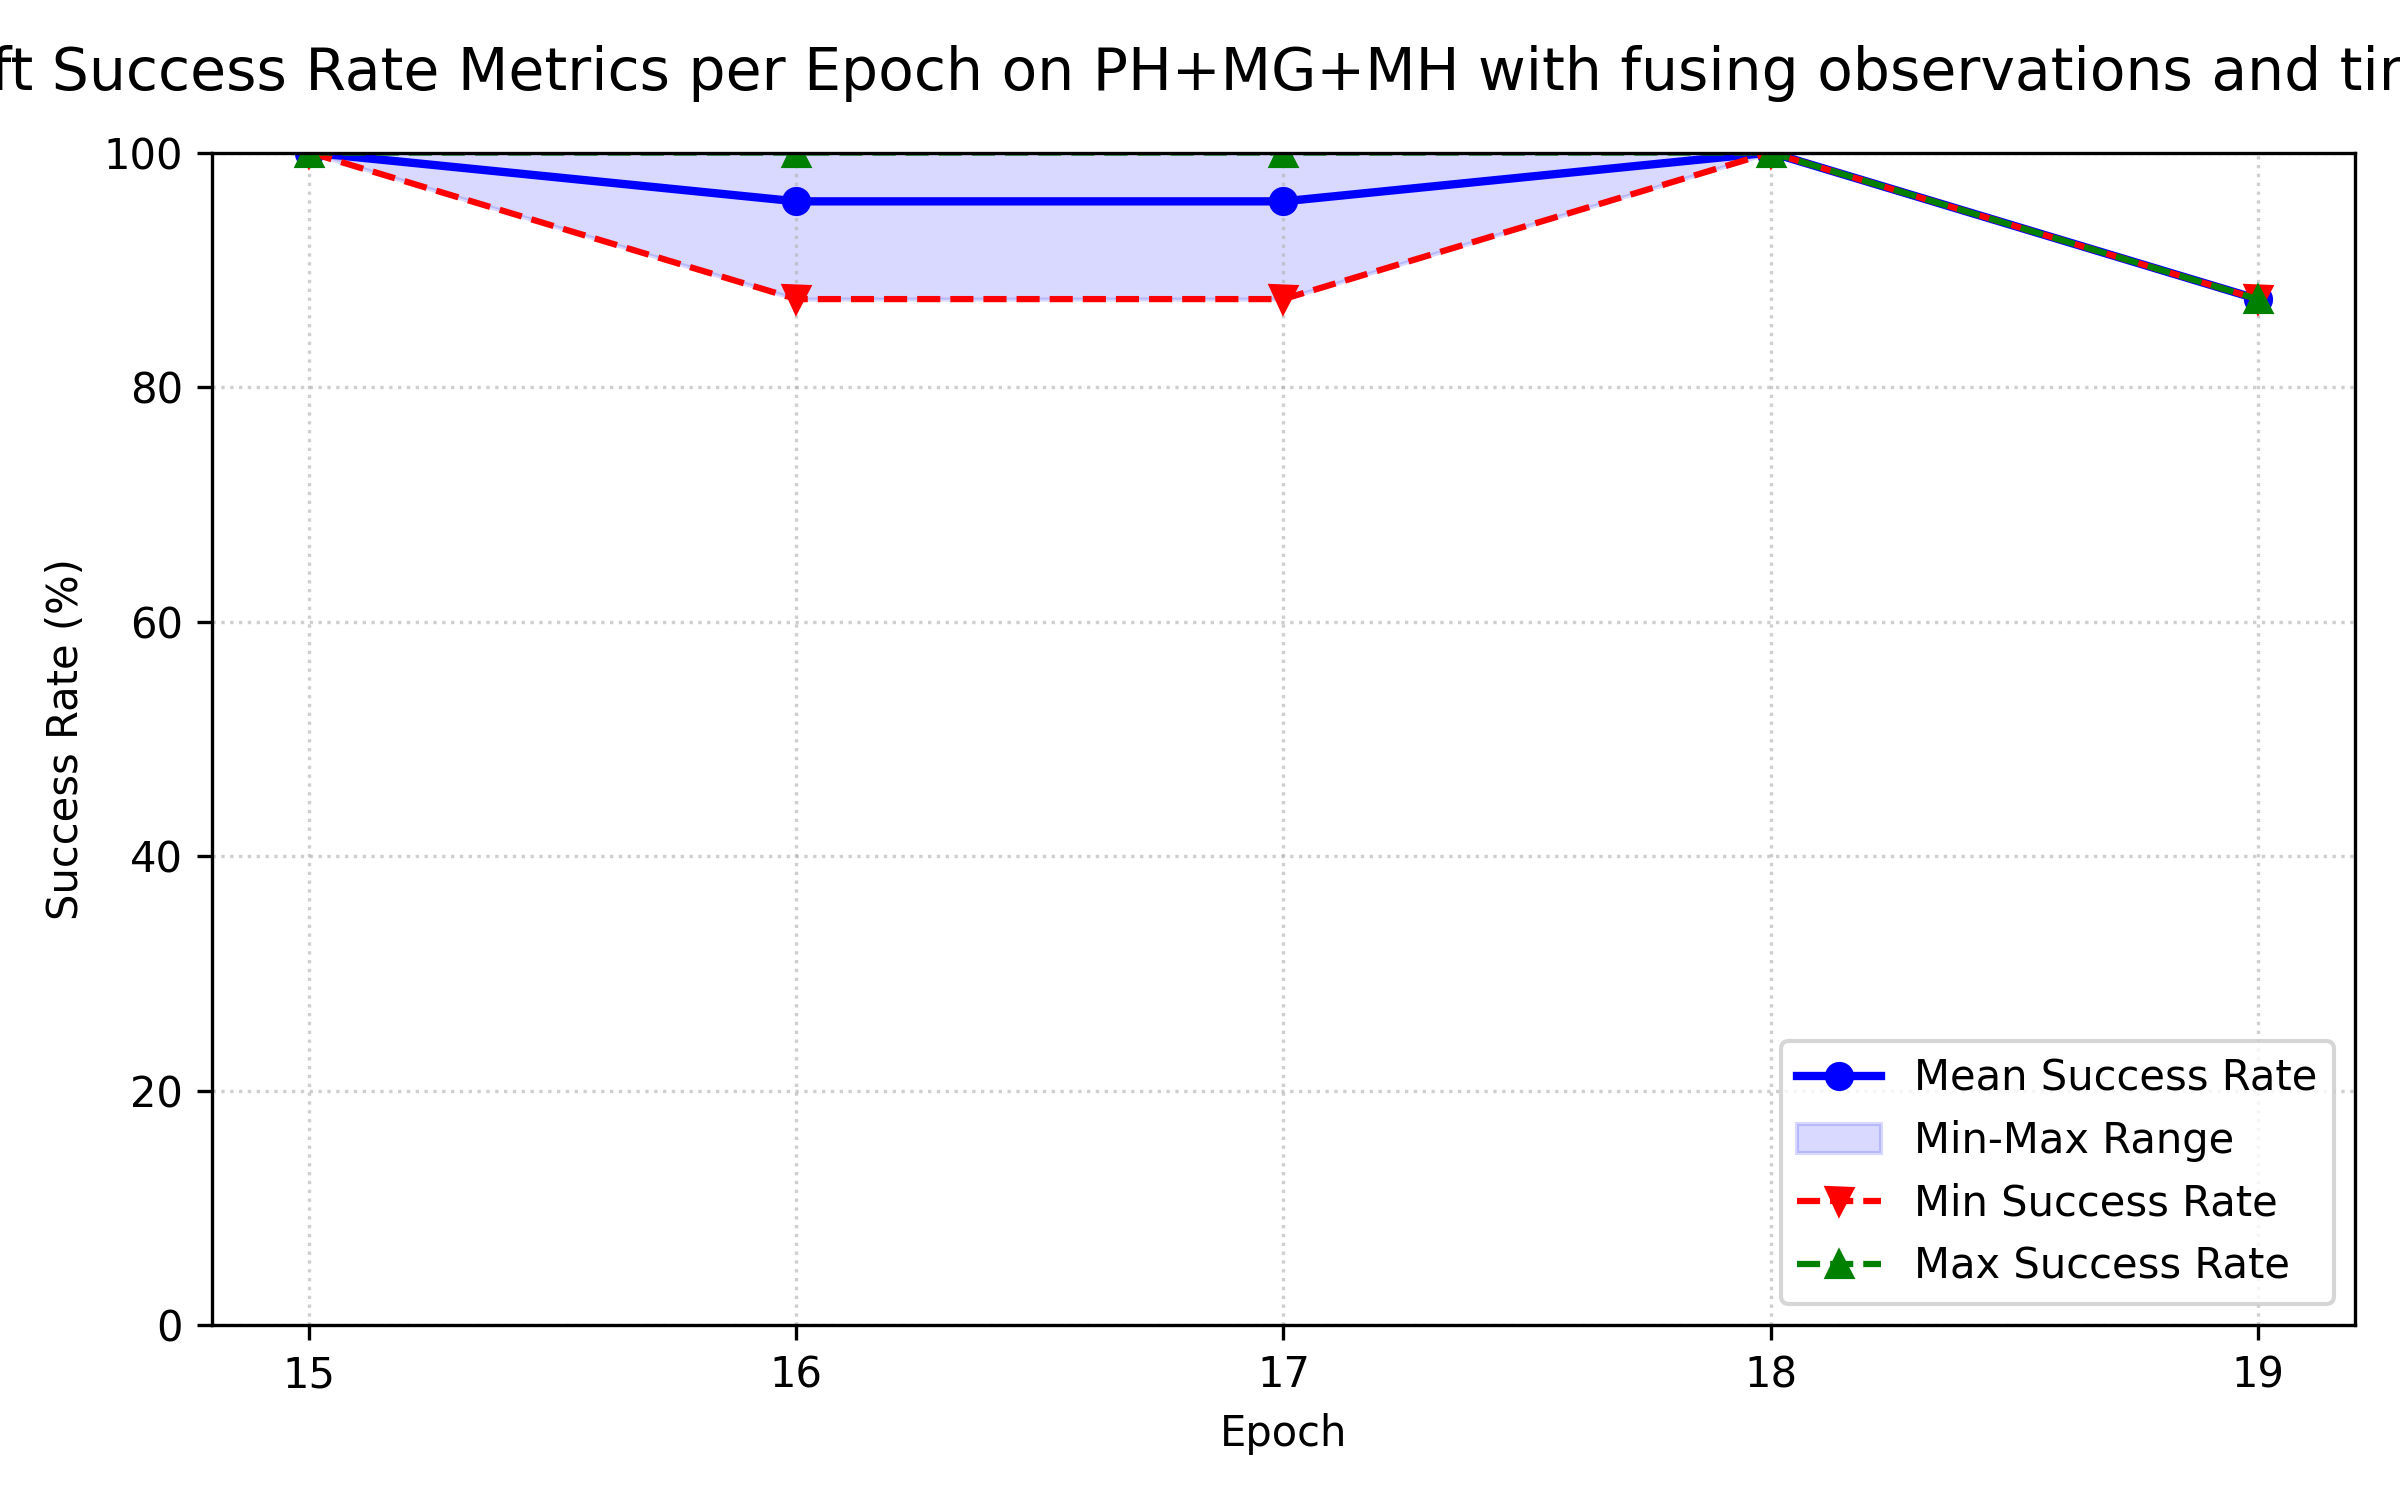
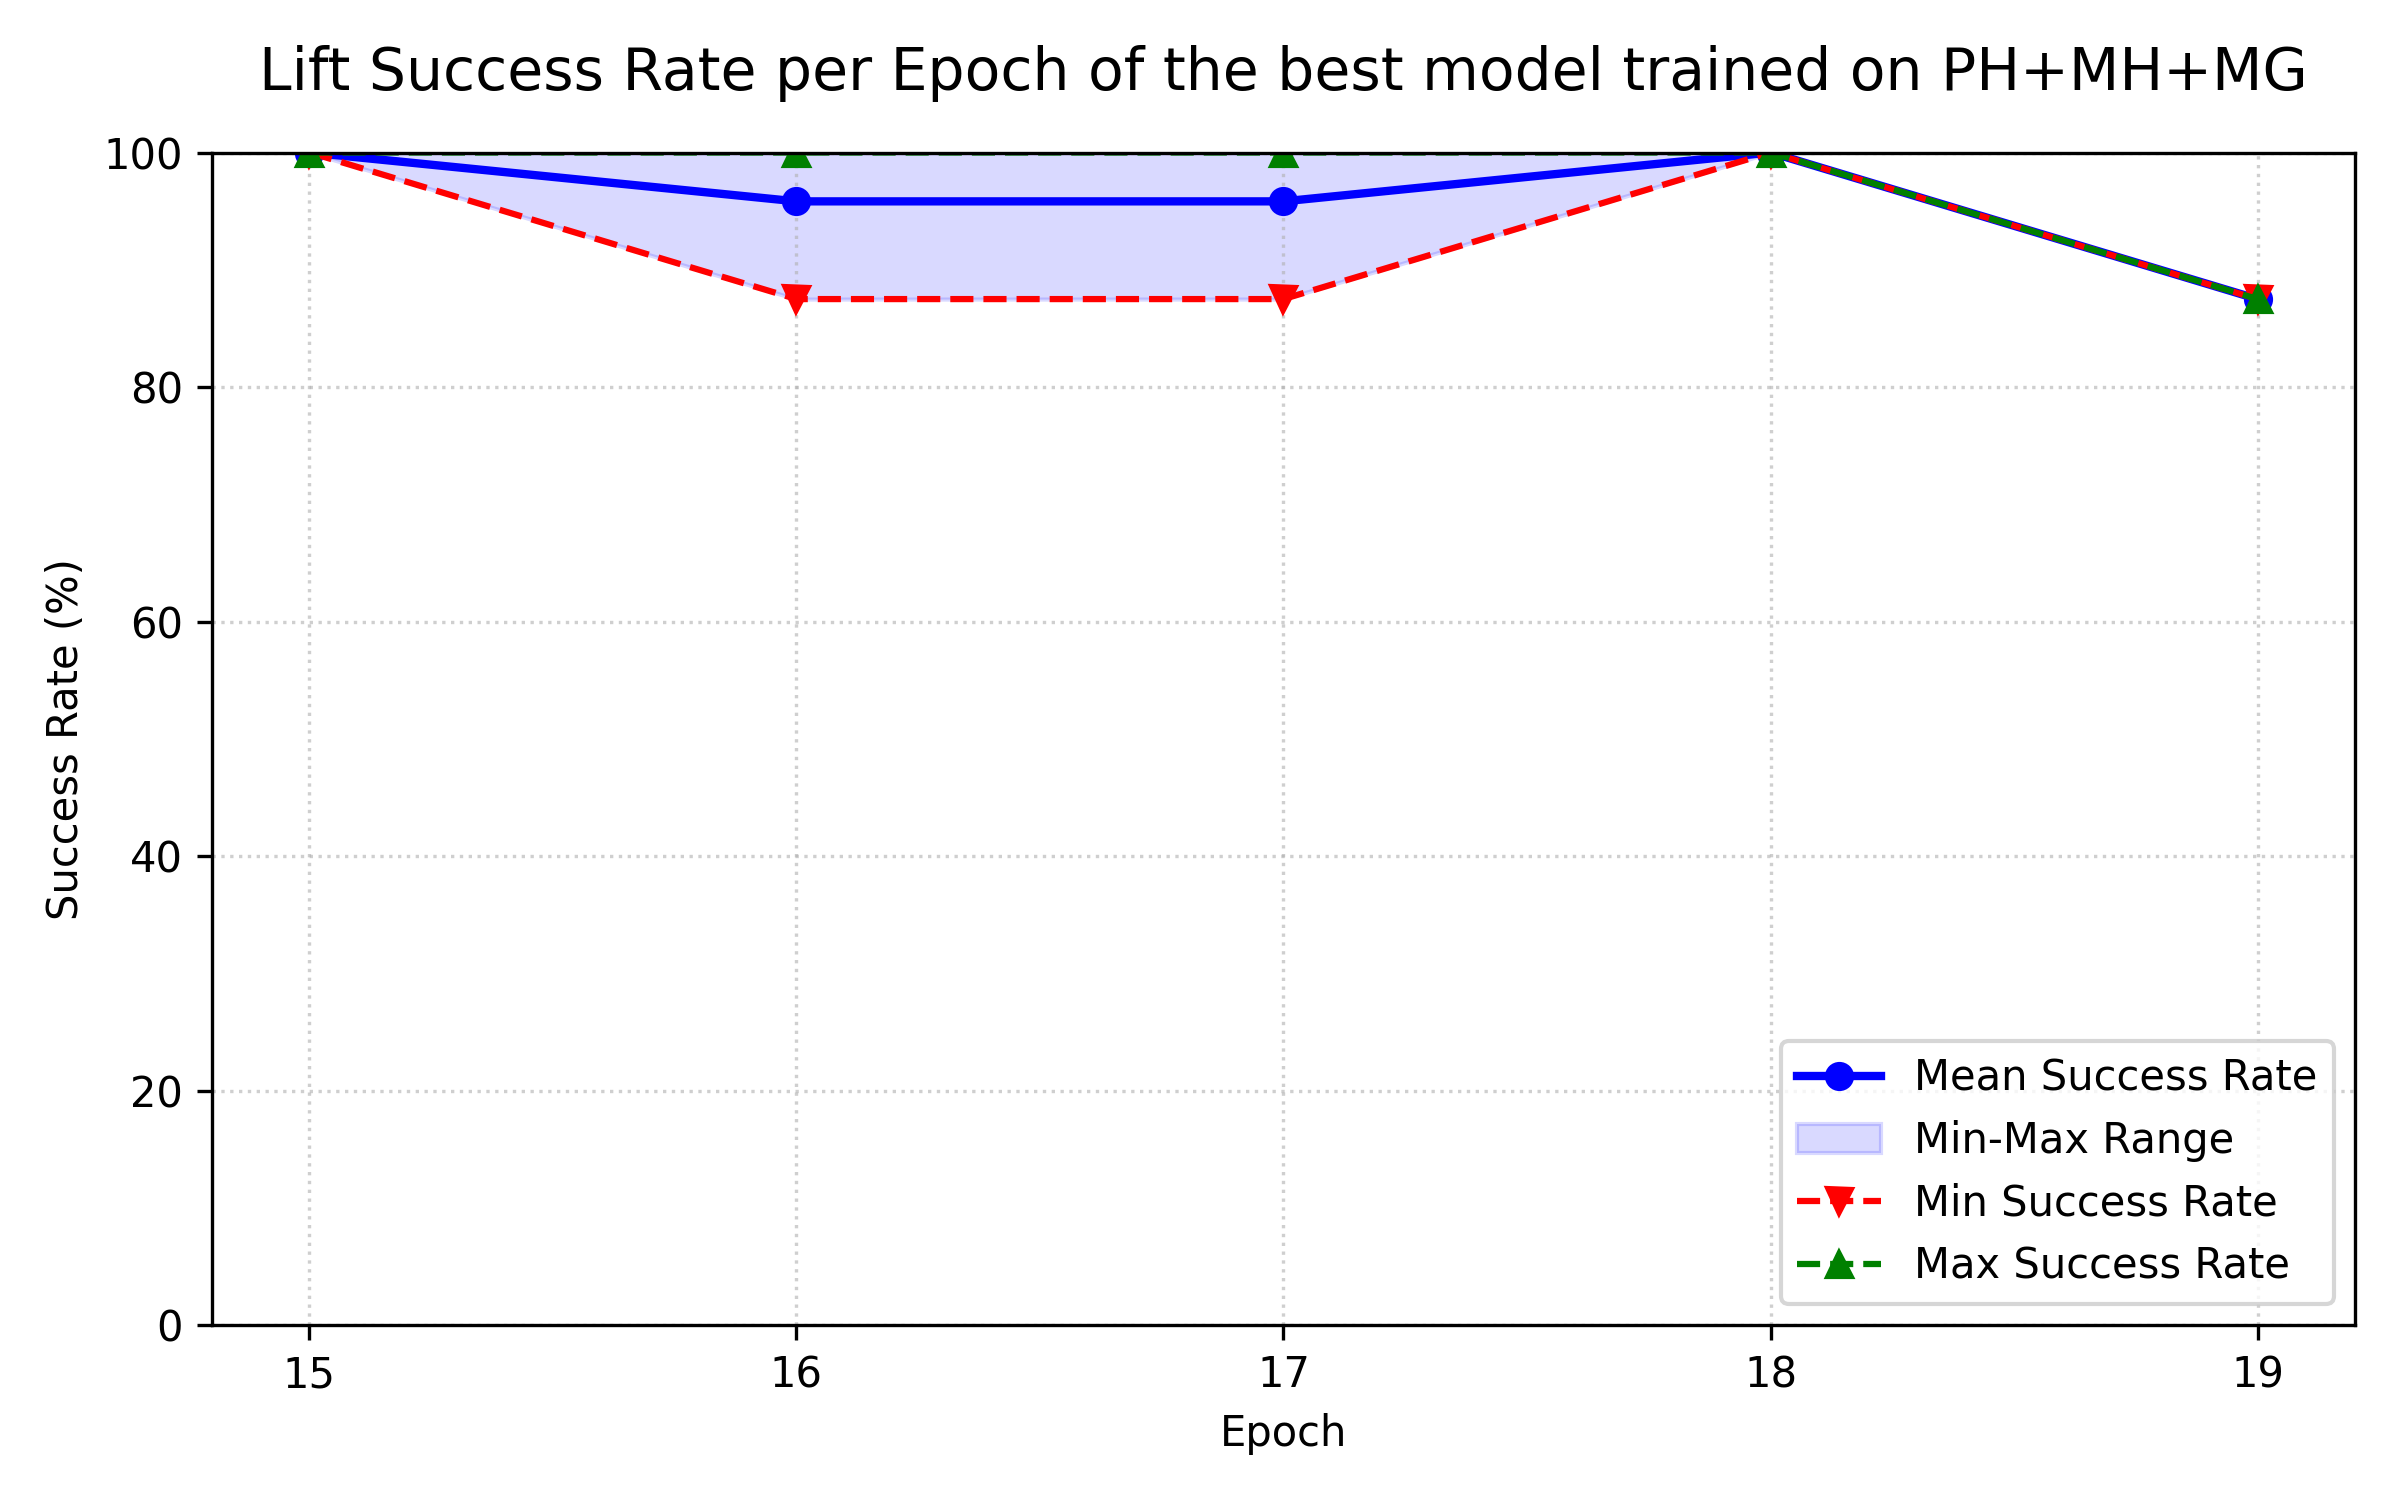
best experiment

Changed region(s): [[0.0, 0.0307, 1.0, 0.0613]]

diff --git a/report/report.tex b/report/report.tex
@@ -185,6 +185,18 @@ Another important thing to note is that the training is really unstable and the 
     \label{fig:non_icl_variance_graph}
 \end{figure}
 
+\subsection{Best experiment}
+After a large amount of experiments we have managed to achieve a 100\% success rate on the block lifting task (see Figure~\ref{fig:master}).
+This makes many experiment results below seem pale in comparison - but keep in mind that a) this is a result w/o ICL, b) it was achieved very late into this project (hours before submitting this report)
+\begin{figure}[htbp]
+    \centering
+    \includegraphics[width=\textwidth]{images/plots/master.png}
+    \caption{Success rate on the Lift task of our best model.}
+    \label{fig:master}
+\end{figure}
+
+
+
 \section{Task Generalization}
 We performed a large number of experiments that tested generalization between tasks.
 

diff --git a/report/images/plot_generation_scripts/master.py b/report/images/plot_generation_scripts/master.py
@@ -33,7 +33,7 @@ ax.plot(epochs, maxs, label='Max Success Rate', color='green', linestyle='--', m
 # Graph customization
 ax.set_xlabel('Epoch')
 ax.set_ylabel('Success Rate (%)')
-ax.set_title('Standard_Lift Success Rate Metrics per Epoch on PH+MG+MH with fusing observations and time-based rewards', fontsize=14, pad=15)
+ax.set_title('Lift Success Rate per Epoch of the best model trained on PH+MH+MG', fontsize=14, pad=15)
 ax.set_xticks(epochs)
 ax.set_ylim(0, 100)
 ax.grid(True, linestyle=':', alpha=0.6)
